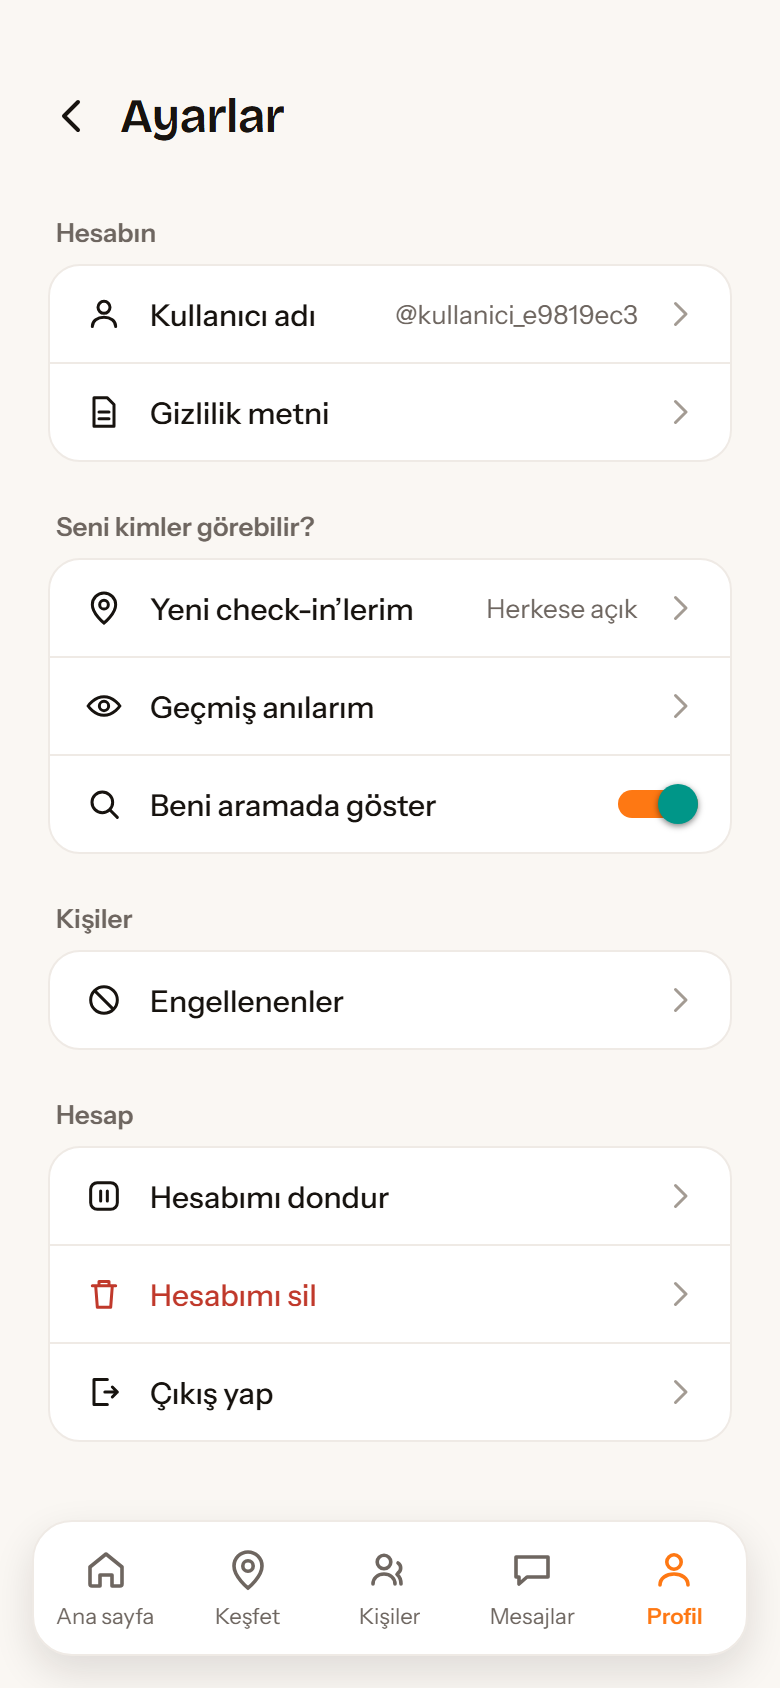
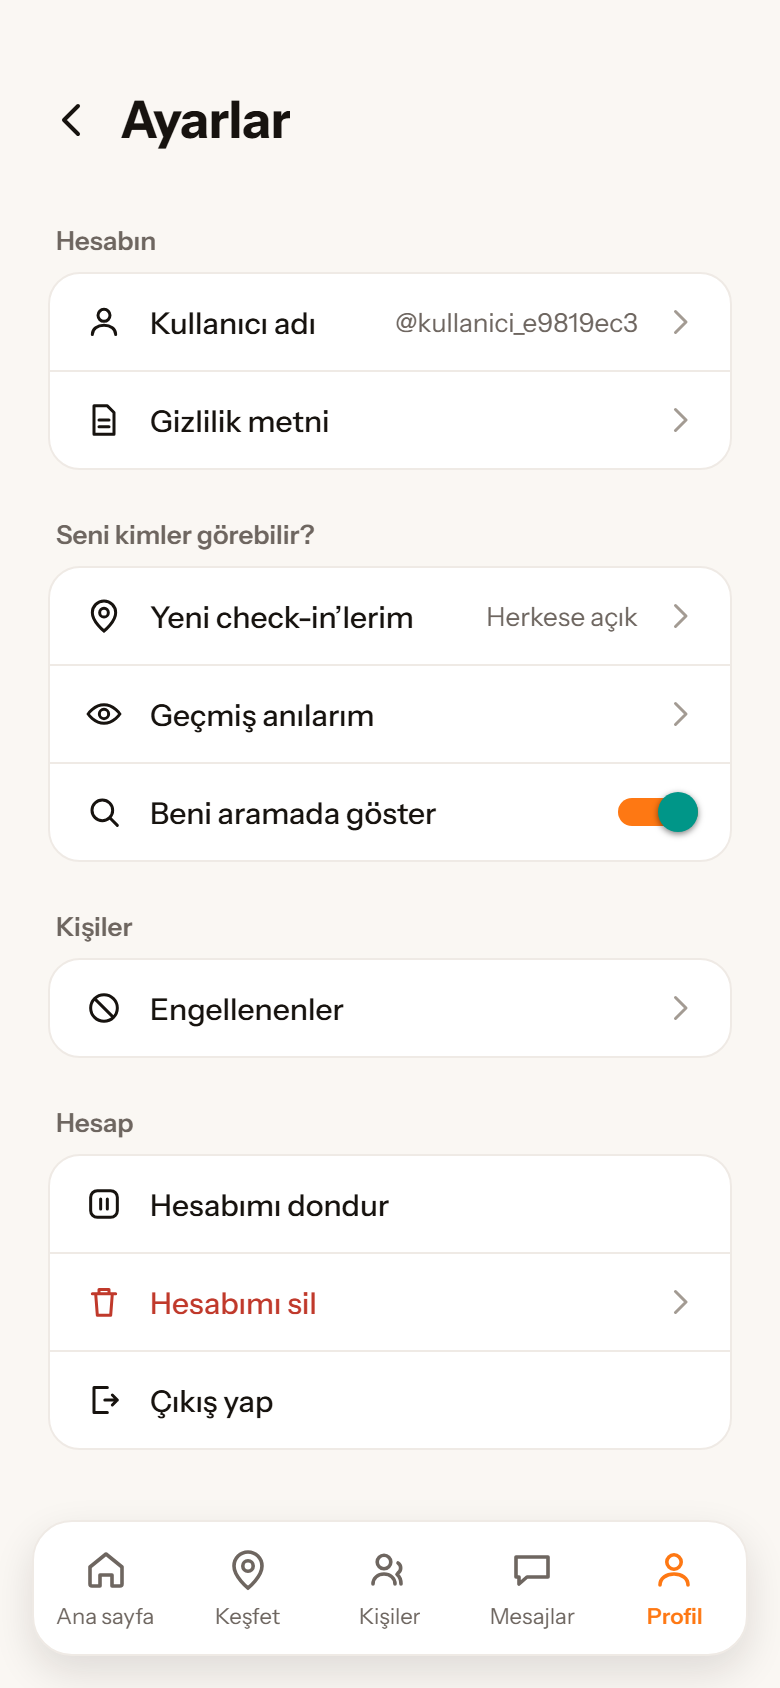
feat(tasarim): ekran basliklari notr, kalin ve daha buyuk puntolu
Kullanicinin karari (2026-08-25, Instagram ayarlar ekranini ornek
gostererek): "Basliklar daha kalin ve boyut olarak daha buyuk olucak
ama yazi stili ornekteki gibi olucak."

Sayfa ve bolum basliklari artik marka fontu Bricolage ile degil govde
ailesinin en agir kesimiyle (Instrument Sans 700) yaziliyor. Yeni
jeton: yazi.ekranBasligi. Olcek buyudu: baslik 24 -> 26, altBaslik
18 -> 19. 22 ekran dosyasi bu jetona gecti.

Bricolage KALDIRILMADI: kelime markasinda ve karsilama/giris
ekranlarinin buyuk vaadinde duruyor - markanin konustugu yerlerde.
Uygulamanin ici notr ve okunakli.

Ayrica ayarlardaki anahtarin web'de yesil gorunmesi duzeltildi:
react-native-web kendi activeThumbColor'ini bekliyor.

49 paket / 416 test yesil.

diff --git a/mobil/src/tasarim/tema.ts b/mobil/src/tasarim/tema.ts
@@ -51,6 +51,20 @@ export const yazi = {
   /** Baslik ailesi. Karakterli; olculu kullanilir. */
   baslik: 'BricolageGrotesque_600SemiBold',
   baslikKalin: 'BricolageGrotesque_700Bold',
+  /**
+   * EKRAN BASLIKLARI (kullanicinin karari, 2026-08-25).
+   *
+   * Sayfa ve bolum basliklari marka fontu Bricolage ile degil, govde
+   * ailesinin en agir kesimiyle yaziliyor: kullanici Instagram'in
+   * ayarlar ekranini ornek gosterip "yazi stili bu ornekteki gibi
+   * olsun, basliklar daha kalin ve daha buyuk puntolu" dedi.
+   *
+   * Bricolage KALDIRILMADI: kelime markasinda ve karsilama/giris
+   * ekranlarinin buyuk vaadinde duruyor - yani markanin konustugu
+   * yerlerde. Uygulamanin ici ise notr ve okunakli.
+   */
+  ekranBasligi: 'InstrumentSans_700Bold',
+
   /** Govde ailesi. */
   govde: 'InstrumentSans_400Regular',
   govdeOrta: 'InstrumentSans_500Medium',
@@ -60,8 +74,8 @@ export const yazi = {
 /** Tip olcegi. Kanvastaki degerlerden turetildi. */
 export const olcek = {
   dev: 56,
-  baslik: 24,
-  altBaslik: 18,
+  baslik: 26,
+  altBaslik: 19,
   govde: 15,
   kucuk: 13,
   minik: 11,

diff --git a/mobil/src/app/kullanici/[id].tsx b/mobil/src/app/kullanici/[id].tsx
@@ -448,7 +448,7 @@ const stiller = StyleSheet.create({
   },
   ustBaslik: {
     flexShrink: 1,
-    fontFamily: yazi.baslik,
+    fontFamily: yazi.ekranBasligi,
     fontSize: olcek.altBaslik,
     color: renk.metin,
     letterSpacing: -0.3,
@@ -469,7 +469,7 @@ const stiller = StyleSheet.create({
   basHarf: { fontFamily: yazi.baslikKalin, fontSize: 34, color: renk.turuncu },
   kimlikOrta: { flex: 1 },
   ad: {
-    fontFamily: yazi.baslik,
+    fontFamily: yazi.ekranBasligi,
     fontSize: olcek.altBaslik,
     color: renk.metin,
     letterSpacing: -0.3,
@@ -579,7 +579,7 @@ const stiller = StyleSheet.create({
   },
 
   bolumAd: {
-    fontFamily: yazi.baslik,
+    fontFamily: yazi.ekranBasligi,
     fontSize: olcek.altBaslik,
     color: renk.metin,
     letterSpacing: -0.3,

diff --git a/mobil/src/app/profil/ayarlar.tsx b/mobil/src/app/profil/ayarlar.tsx
@@ -151,8 +151,12 @@ export default function AyarlarEkrani() {
                 value={aramadaGorunsun}
                 onValueChange={aramadaGorunsunDegisti}
                 trackColor={{ true: renk.turuncu, false: renk.cizgi }}
-                // Web'de varsayilan dugme yesil geliyor; kimlikte yesil yok.
+                // Web'de varsayilan dugme YESIL geliyor ve kimlikte yesil
+                // yok. `thumbColor` react-native-web'de karsiligi olmayan
+                // bir prop; RNW kendi `activeThumbColor`ini bekliyor, o da
+                // RN'in tip tanimlarinda olmadigi icin ayri geciliyor.
                 thumbColor={renk.yuzey}
+                {...({ activeThumbColor: renk.yuzey } as object)}
               />
             }
           />

diff --git a/mobil/src/app/profil/index.tsx b/mobil/src/app/profil/index.tsx
@@ -292,7 +292,7 @@ const stiller = StyleSheet.create({
   },
   kullaniciAdi: {
     flexShrink: 1,
-    fontFamily: yazi.baslik,
+    fontFamily: yazi.ekranBasligi,
     fontSize: olcek.baslik,
     color: renk.metin,
     letterSpacing: -0.4,
@@ -398,7 +398,7 @@ const stiller = StyleSheet.create({
     ...golge.kart,
   },
   kartBaslik: {
-    fontFamily: yazi.baslik,
+    fontFamily: yazi.ekranBasligi,
     fontSize: olcek.altBaslik,
     color: renk.metin,
     letterSpacing: -0.3,
@@ -431,7 +431,7 @@ const stiller = StyleSheet.create({
     marginBottom: bosluk.s,
   },
   bolumAd: {
-    fontFamily: yazi.baslik,
+    fontFamily: yazi.ekranBasligi,
     fontSize: olcek.altBaslik,
     color: renk.metin,
     letterSpacing: -0.3,

diff --git a/mobil/src/app/gizlilik.tsx b/mobil/src/app/gizlilik.tsx
@@ -118,7 +118,7 @@ const stiller = StyleSheet.create({
     paddingBottom: ALT_GEZINME_PAYI,
   },
   baslik: {
-    fontFamily: yazi.baslik,
+    fontFamily: yazi.ekranBasligi,
     fontSize: olcek.baslik,
     color: renk.metin,
     letterSpacing: -0.4,
@@ -126,7 +126,7 @@ const stiller = StyleSheet.create({
   },
   bolum: { marginTop: bosluk.l, gap: bosluk.xs },
   bolumBasligi: {
-    fontFamily: yazi.baslik,
+    fontFamily: yazi.ekranBasligi,
     fontSize: olcek.altBaslik,
     color: renk.metin,
     letterSpacing: -0.3,

diff --git a/mobil/src/app/_layout.tsx b/mobil/src/app/_layout.tsx
@@ -10,6 +10,7 @@ import {
   InstrumentSans_400Regular,
   InstrumentSans_500Medium,
   InstrumentSans_600SemiBold,
+  InstrumentSans_700Bold,
 } from '@expo-google-fonts/instrument-sans'
 import { OturumSaglayici, useOturum } from '../../lib/oturum'
 import { DilSaglayici, useDil } from '../../lib/dil'
@@ -120,6 +121,7 @@ export default function KokLayout() {
     InstrumentSans_400Regular,
     InstrumentSans_500Medium,
     InstrumentSans_600SemiBold,
+    InstrumentSans_700Bold,
   })
 
   if (!yaziHazir) return null

diff --git a/mobil/src/app/check-in/[mekanId].tsx b/mobil/src/app/check-in/[mekanId].tsx
@@ -185,7 +185,7 @@ const stiller = StyleSheet.create({
     paddingBottom: ALT_GEZINME_PAYI,
   },
   baslik: {
-    fontFamily: yazi.baslik,
+    fontFamily: yazi.ekranBasligi,
     fontSize: olcek.baslik,
     color: renk.metin,
     letterSpacing: -0.4,
@@ -236,7 +236,7 @@ const stiller = StyleSheet.create({
     color: renk.metin,
   },
   altBaslik: {
-    fontFamily: yazi.baslik,
+    fontFamily: yazi.ekranBasligi,
     fontSize: olcek.altBaslik,
     color: renk.metin,
     letterSpacing: -0.3,

diff --git a/mobil/src/app/profil/engellenenler.tsx b/mobil/src/app/profil/engellenenler.tsx
@@ -142,7 +142,7 @@ const stiller = StyleSheet.create({
   },
   baslik: {
     flexShrink: 1,
-    fontFamily: yazi.baslik,
+    fontFamily: yazi.ekranBasligi,
     fontSize: olcek.baslik,
     color: renk.metin,
     letterSpacing: -0.4,
@@ -205,7 +205,7 @@ const stiller = StyleSheet.create({
 
   bosAlan: { paddingTop: bosluk.xl },
   bosBaslik: {
-    fontFamily: yazi.baslik,
+    fontFamily: yazi.ekranBasligi,
     fontSize: olcek.altBaslik,
     color: renk.metin,
     letterSpacing: -0.3,

diff --git a/mobil/src/app/mesajlar.tsx b/mobil/src/app/mesajlar.tsx
@@ -124,7 +124,7 @@ const stiller = StyleSheet.create({
   },
 
   baslik: {
-    fontFamily: yazi.baslik,
+    fontFamily: yazi.ekranBasligi,
     fontSize: olcek.baslik,
     color: renk.metin,
     letterSpacing: -0.4,
@@ -189,7 +189,7 @@ const stiller = StyleSheet.create({
 
   bosAlan: { paddingTop: bosluk.xxl, alignItems: 'center' },
   bosBaslik: {
-    fontFamily: yazi.baslik,
+    fontFamily: yazi.ekranBasligi,
     fontSize: olcek.altBaslik,
     color: renk.metin,
   },

diff --git a/mobil/src/app/mekanlar/index.tsx b/mobil/src/app/mekanlar/index.tsx
@@ -332,7 +332,7 @@ const stiller = StyleSheet.create({
     gap: bosluk.m,
   },
   durumYazi: { fontFamily: yazi.govde, fontSize: olcek.kucuk, color: renk.metinIkincil },
-  hataBaslik: { fontFamily: yazi.baslik, fontSize: olcek.altBaslik, color: renk.metin },
+  hataBaslik: { fontFamily: yazi.ekranBasligi, fontSize: olcek.altBaslik, color: renk.metin },
   hataAciklama: {
     fontFamily: yazi.govde,
     fontSize: olcek.govde,

diff --git a/mobil/src/app/mekanlar/[id].tsx b/mobil/src/app/mekanlar/[id].tsx
@@ -217,7 +217,7 @@ const stiller = StyleSheet.create({
   },
   canliNokta: { width: 8, height: 8, borderRadius: 4, backgroundColor: renk.turuncu },
   bolumAd: {
-    fontFamily: yazi.baslik,
+    fontFamily: yazi.ekranBasligi,
     fontSize: olcek.altBaslik,
     color: renk.metin,
     letterSpacing: -0.3,

diff --git a/mobil/src/app/index.tsx b/mobil/src/app/index.tsx
@@ -293,7 +293,7 @@ const stiller = StyleSheet.create({
 
   bosAlan: { paddingHorizontal: bosluk.s, paddingTop: bosluk.xxl },
   bosBaslik: {
-    fontFamily: yazi.baslik,
+    fontFamily: yazi.ekranBasligi,
     fontSize: olcek.altBaslik,
     color: renk.metin,
     letterSpacing: -0.3,
